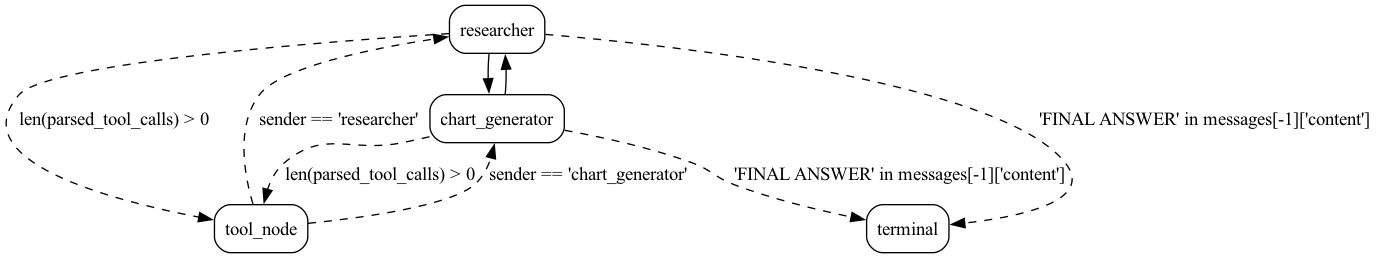
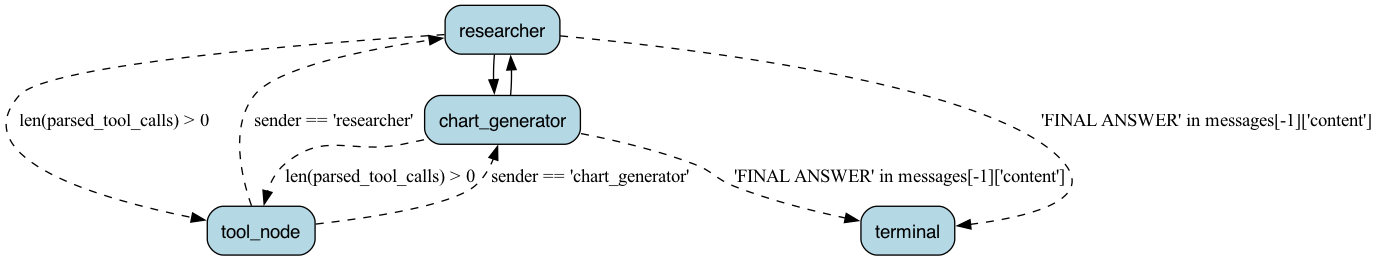
Fixes bad docs links
The docs refactor missed fixing some links.

This also throws in a regenerated state graph image too.

diff --git a/telemetry/ui/src/components/routes/app/ReproduceView.tsx b/telemetry/ui/src/components/routes/app/ReproduceView.tsx
@@ -52,7 +52,7 @@ export const ReproduceView = (props: {
         <p>
           To generate a test case for this step, run the following command.
           <a
-            href="https://burr.dagworks.io/examples/creating_tests/"
+            href="https://burr.dagworks.io/examples/guardrails/creating_tests/"
             target="_blank"
             rel="noreferrer"
             className="hover:underline text-dwlightblue"
